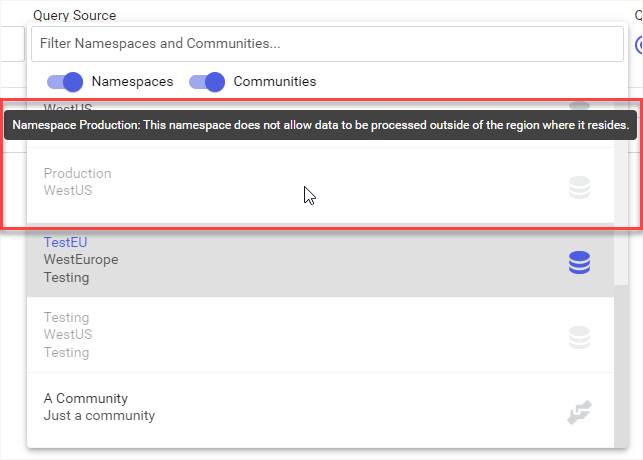
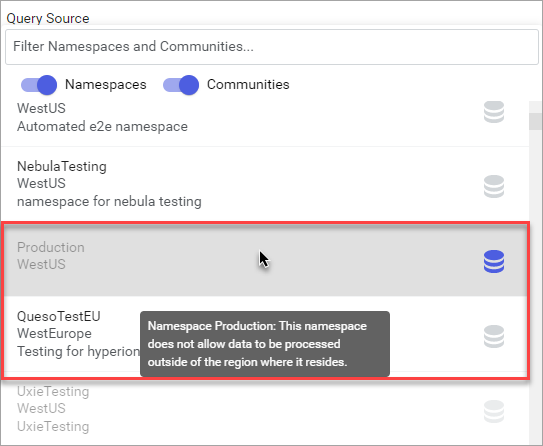
updates for opt out chip

Changed region(s): [[0.0, 0.0, 1.0, 1.0], [0.4715, 0.5538, 0.5009, 0.6121]]

diff --git a/content/analytics/data-views/data-view-troubleshooting.md b/content/analytics/data-views/data-view-troubleshooting.md
@@ -12,19 +12,25 @@ While browsing the list of data views, you may encounter the following warnings.
 
 ### Alert chip
 
-Query sources that include a yellow alert chip indicate that you have a permissions issue affecting your view of the data view. There are two context for when an alert chip displays:
+Query sources that include a yellow or red alert chip indicate that you have an issue affecting your view of the data view. There are several contexts for when an alert chip displays:
 
 - **Unknown community chip**
 
     ![unknown](_images/unknown-community.png)
 
-    Alert chips that read `Unknown Community` indicate that you have insufficient permissions to access the community or that has been deleted. You must be a member of the community to access its data. Additionally, you cannot edit the query for the community until you are member of the community. Request that a community administrator add you to the community.
+    Yellow alert chips that read `Unknown Community` indicate that you have insufficient permissions to access the community or that has been deleted. You must be a member of the community to access its data. Additionally, you cannot edit the query for the community until you are member of the community. Request that a community administrator add you to the community.
 
 - **Read access chip with community name**
 
     ![read access chip](_images/test-community-chip.png)
 
-    Alert chips that display the community name indicate that you are a [Community Administrator](xref:community-community-roles#community-administrators) or [Community Member](xref:community-community-roles#community-member) with read access, but not a member of the community itself. Community Administrators can use the visible community name to add users to the community. For more information on adding a user to the community, see <xref:community-manage-users>.
+    Yellow alert chips that display the community name indicate that you are a [Community Administrator](xref:community-community-roles#community-administrators) or [Community Member](xref:community-community-roles#community-member) with read access, but not a member of the community itself. Community Administrators can use the visible community name to add users to the community. For more information on adding a user to the community, see <xref:community-manage-users>.
+
+- **Cross region opt out chip**
+
+    ![opt out chip](_images/opt-out-chip.png)
+
+    Red alert chips indicate that the data view queries a namespace that has opted out of [Cross region data sharing](xref:cross-region-data-sharing), but the data view resides in a different region. Therefore, the query does not resolve. For more information, see [Cross region processing opt out](#cross-region-processing-opt-out).
 
 ## Data View page
 
@@ -52,7 +58,7 @@ You can correct this error by finding the individual fields that do not map to a
 
 While managing data view queries, you may encounter the following warning.
 
-### Cross region processing disabled
+### Cross region processing opt out
 
 If you encounter a warning of `This namespace does not allow data to be processed outside of the region where it resides`, this message indicates that the namespace has opted out of sharing its data across regions, and the currently selected namespace has a different primary geographical region. Therefore, the data view cannot be processed in the currently selected namespace. For additional information, see <xref:cross-region-data-sharing>.
 
